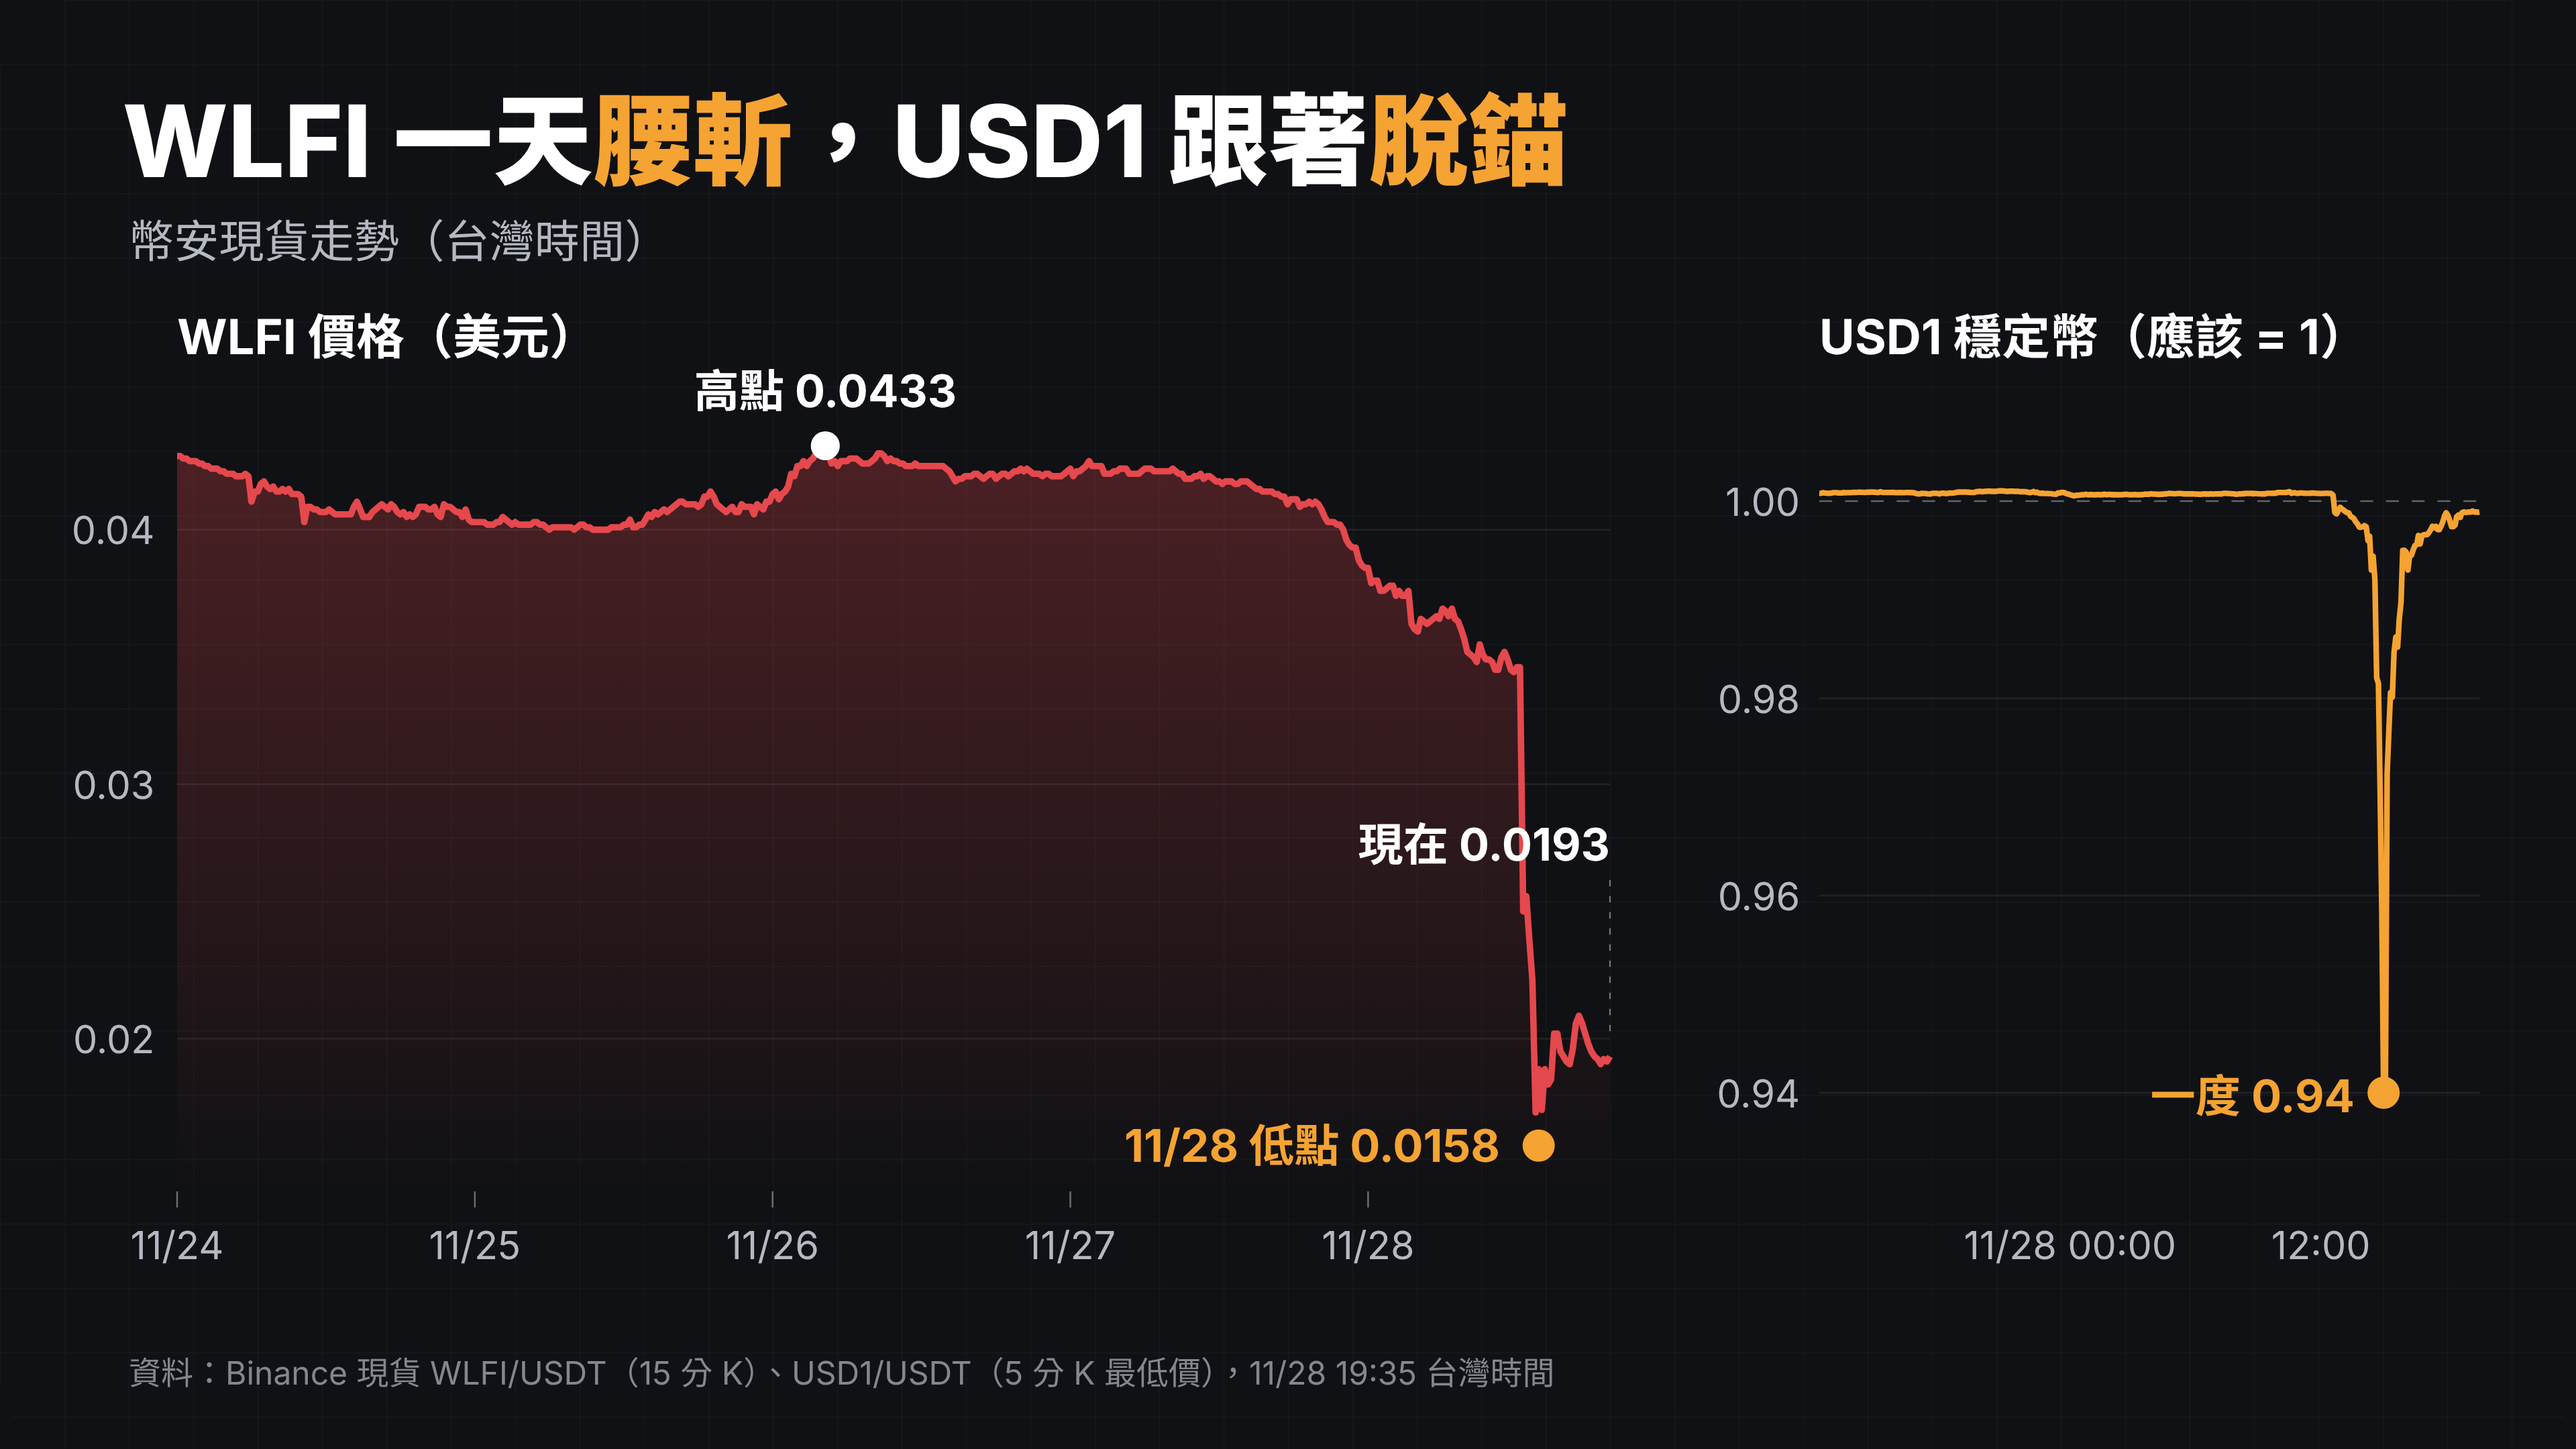
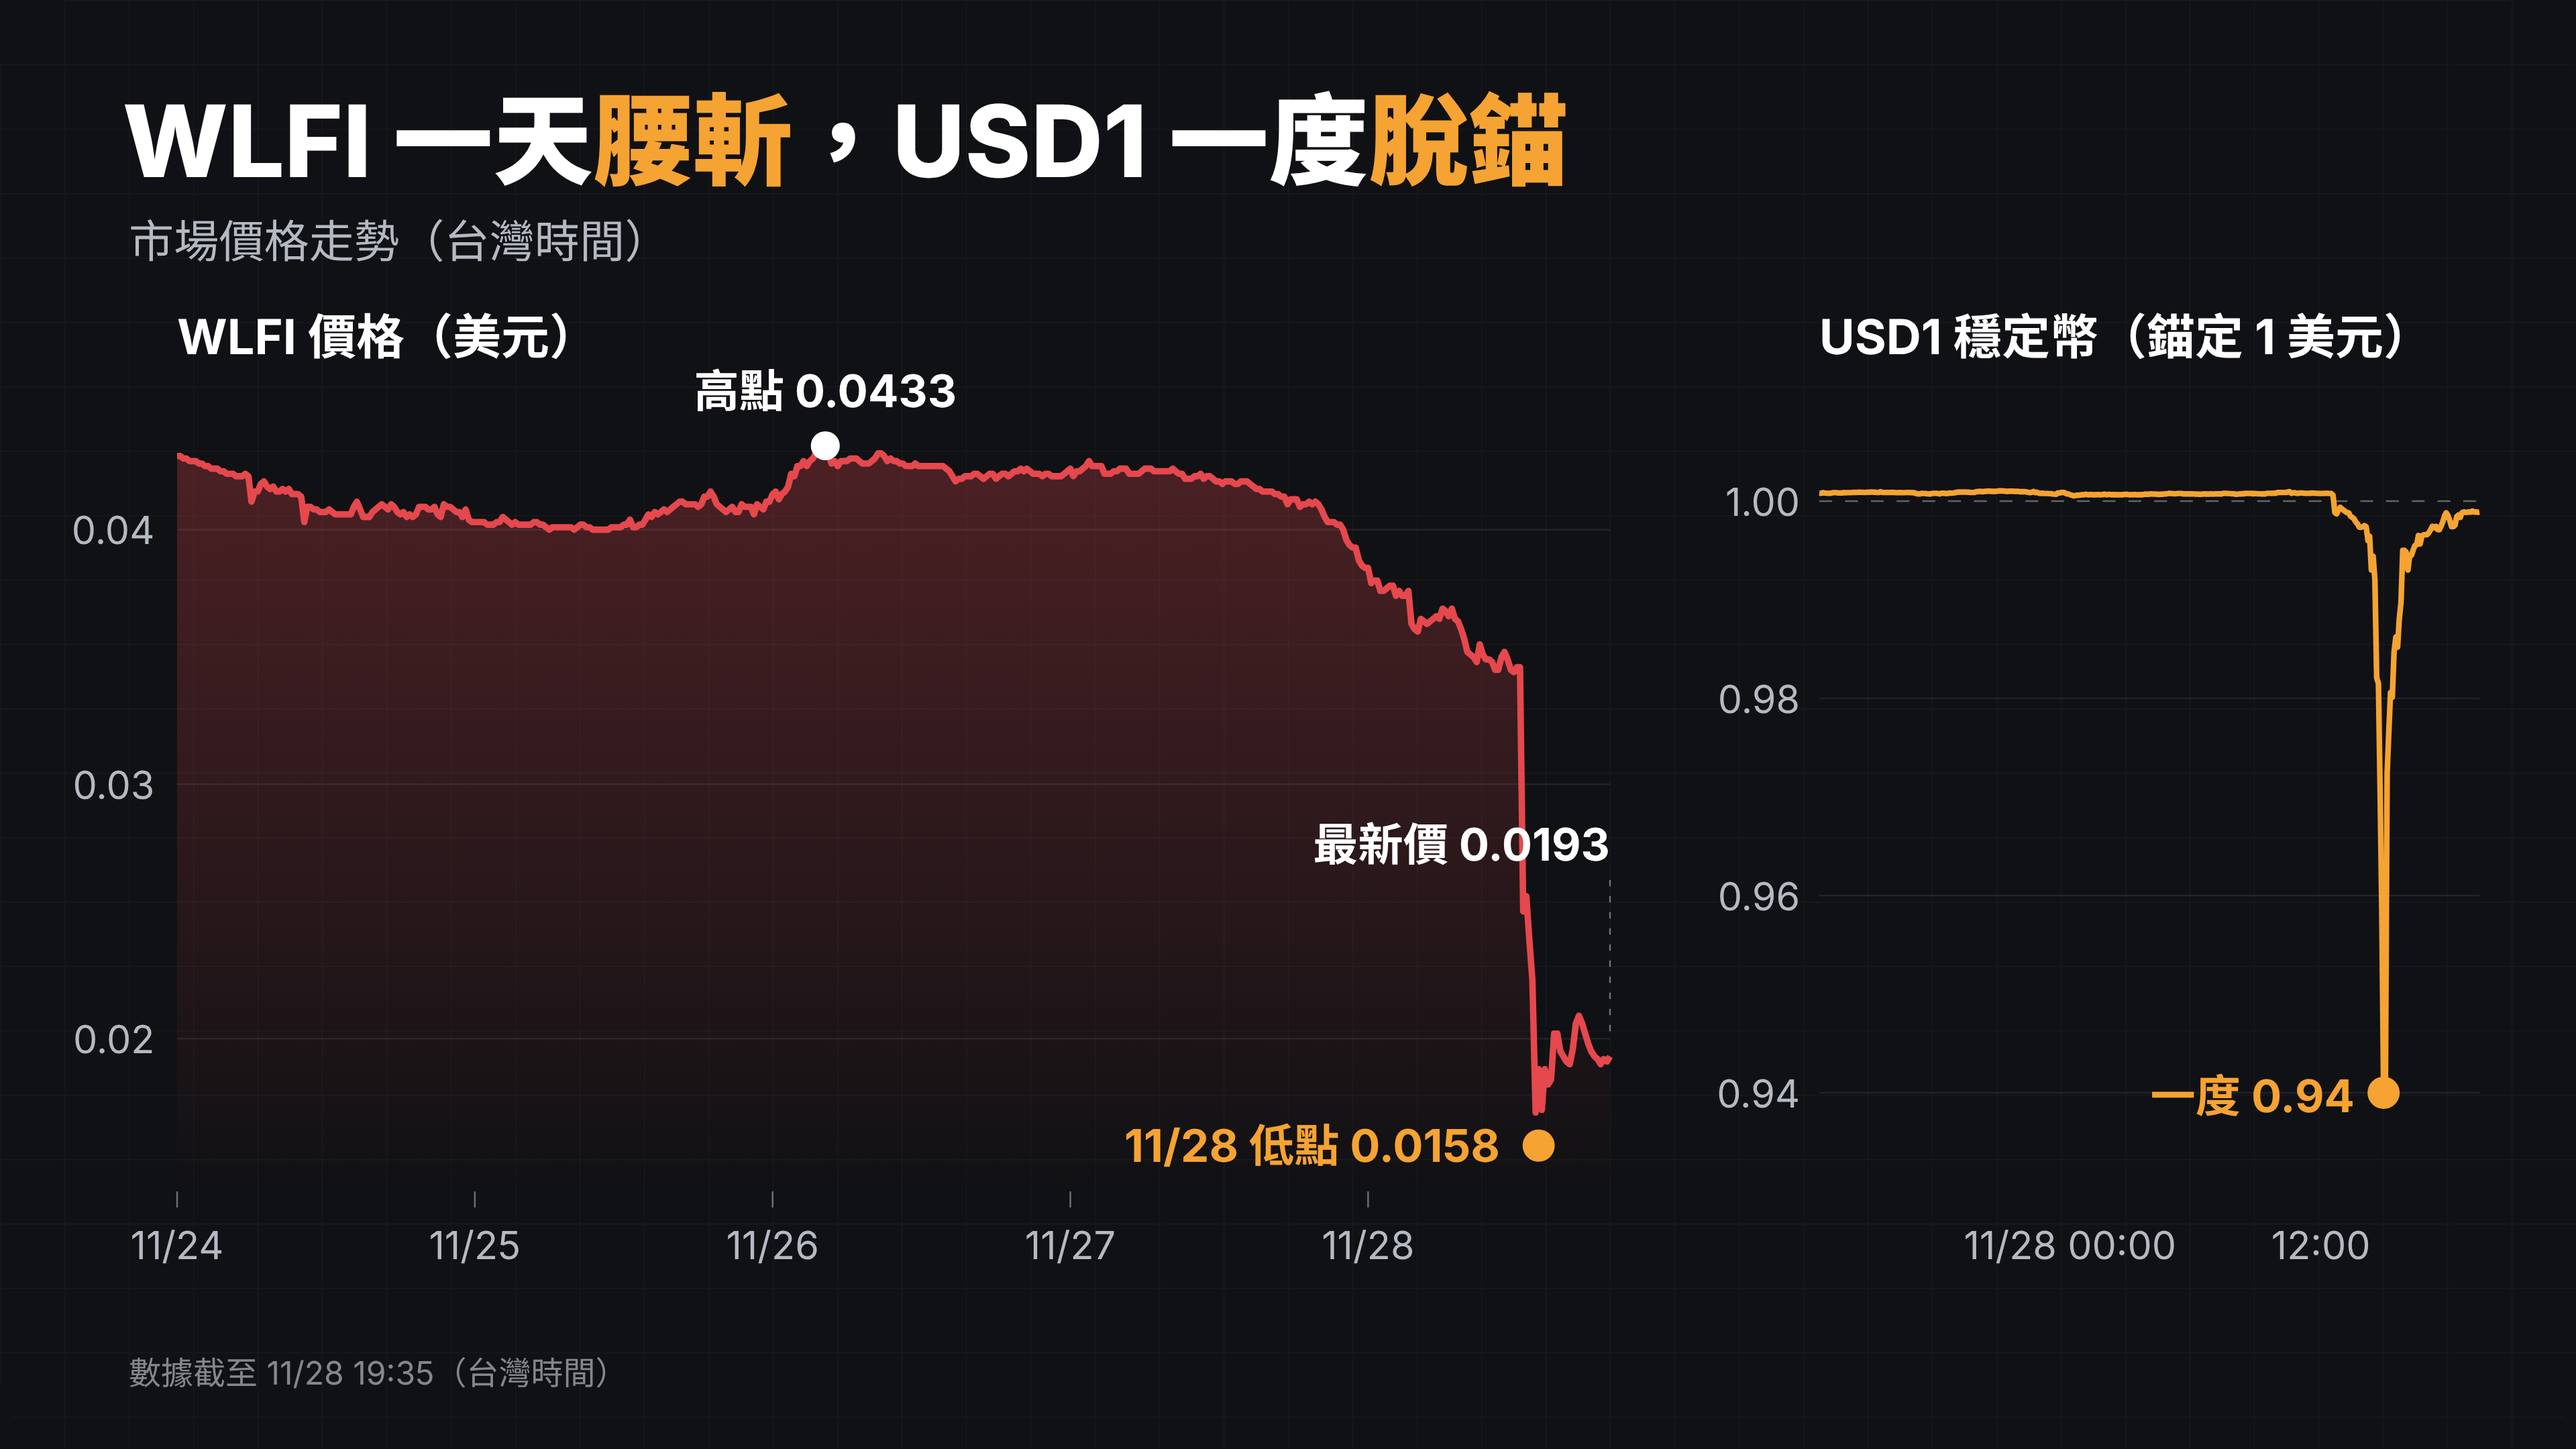
WLFI chart: text-only wording changes
Claude-Session: https://claude.ai/code/session_01L5kApshkgF9dxZ4dAm4ERZ

diff --git a/news-1128/wlfi-usd1-1128-4k.js b/news-1128/wlfi-usd1-1128-4k.js
@@ -7,8 +7,8 @@ draw:T=>{
   let g=`<defs><pattern id="grid" width="40" height="40" patternUnits="userSpaceOnUse"><path d="M40 0H0V40" fill="none" stroke="#fff" stroke-opacity="0.035"/></pattern>
   <linearGradient id="fillA" x1="0" x2="0" y1="0" y2="1"><stop offset="0" stop-color="${T.red}" stop-opacity="0.28"/><stop offset="1" stop-color="${T.red}" stop-opacity="0"/></linearGradient></defs>
   <rect width="1600" height="900" fill="url(#grid)"/>`;
-  g+=`<text x="76" y="110" class="ti">WLFI 一天<tspan fill="${T.fg}">腰斬</tspan>，USD1 跟著<tspan fill="${T.fg}">脫錨</tspan></text>`;
-  g+=`<text x="80" y="160" class="sub">幣安現貨走勢（台灣時間）</text>`;
+  g+=`<text x="76" y="110" class="ti">WLFI 一天<tspan fill="${T.fg}">腰斬</tspan>，USD1 一度<tspan fill="${T.fg}">脫錨</tspan></text>`;
+  g+=`<text x="80" y="160" class="sub">市場價格走勢（台灣時間）</text>`;
   // 左：WLFI
   const ax={x0:110,x1:1000,y0:740,y1:250,lo:0.014,hi:0.045};
   const xs=data.w.map(d=>d[0]),xmin=xs[0],xmax=xs[xs.length-1];
@@ -22,18 +22,18 @@ draw:T=>{
   const lo=data.w.reduce((a,b)=>b[2]<a[2]?b:a), hi=data.w.reduce((a,b)=>b[3]>a[3]?b:a), last=data.w[data.w.length-1];
   g+=`<circle cx="${X(hi[0])}" cy="${Y(hi[3])}" r="9" fill="${T.text}"/><text x="${X(hi[0])}" y="${Y(hi[3])-24}" class="an" text-anchor="middle">高點 ${hi[3]}</text>`;
   g+=`<circle cx="${X(lo[0])}" cy="${Y(lo[2])}" r="10" fill="${T.fg}"/><text x="${X(lo[0])-24}" y="${Y(lo[2])+10}" class="an" style="fill:${T.fg}" text-anchor="end">11/28 低點 ${lo[2]}</text>`;
-  g+=`<text x="${ax.x1}" y="${Y(0.027)}" class="an" text-anchor="end">現在 ${last[1]}</text><line x1="${X(last[0])}" x2="${X(last[0])}" y1="${Y(0.027)+12}" y2="${Y(last[1])-10}" stroke="#fff" stroke-opacity="0.4" stroke-dasharray="4 6"/>`;
+  g+=`<text x="${ax.x1}" y="${Y(0.027)}" class="an" text-anchor="end">最新價 ${last[1]}</text><line x1="${X(last[0])}" x2="${X(last[0])}" y1="${Y(0.027)+12}" y2="${Y(last[1])-10}" stroke="#fff" stroke-opacity="0.4" stroke-dasharray="4 6"/>`;
   // 右：USD1
   const bx={x0:1130,x1:1540,y0:740,y1:250,lo:0.93,hi:1.01};
   const us=data.u.map(d=>d[0]),umin=us[0],umax=us[us.length-1];
   const X2=t=>bx.x0+(t-umin)/(umax-umin)*(bx.x1-bx.x0), Y2=v=>bx.y0-(v-bx.lo)/(bx.hi-bx.lo)*(bx.y0-bx.y1);
-  g+=`<text x="${bx.x0}" y="${bx.y1-30}" class="ph">USD1 穩定幣（應該 = 1）</text>`;
+  g+=`<text x="${bx.x0}" y="${bx.y1-30}" class="ph">USD1 穩定幣（錨定 1 美元）</text>`;
   for(const v of [0.94,0.96,0.98,1.00]){g+=`<line x1="${bx.x0}" x2="${bx.x1}" y1="${Y2(v)}" y2="${Y2(v)}" stroke="#fff" stroke-opacity="${v===1?0.35:0.08}" ${v===1?'stroke-dasharray="8 8"':''}/><text x="${bx.x0-12}" y="${Y2(v)+9}" class="ax" text-anchor="end">${v.toFixed(2)}</text>`;}
   for(const [lab,t] of [['11/28 00:00',Date.UTC(2026,10,27,16)],['12:00',Date.UTC(2026,10,28,4)]]){if(t<umin||t>umax)continue;g+=`<text x="${X2(t)}" y="${bx.y0+42}" class="ax" text-anchor="middle">${lab}</text>`;}
   g+=`<polyline points="${data.u.map(d=>`${X2(d[0]).toFixed(1)},${Y2(d[2]).toFixed(1)}`).join(' ')}" fill="none" stroke="${T.fg}" stroke-width="3.5" stroke-linejoin="round"/>`;
   const ul=data.u.reduce((a,b)=>b[2]<a[2]?b:a);
   g+=`<circle cx="${X2(ul[0])}" cy="${Y2(ul[2])}" r="10" fill="${T.fg}"/><text x="${X2(ul[0])-18}" y="${Y2(ul[2])+12}" class="an" style="fill:${T.fg}" text-anchor="end">一度 ${ul[2].toFixed(2)}</text>`;
-  g+=`<text x="80" y="860" class="src">資料：Binance 現貨 WLFI/USDT（15 分 K）、USD1/USDT（5 分 K 最低價），11/28 19:35 台灣時間</text>`;
+  g+=`<text x="80" y="860" class="src">數據截至 11/28 19:35（台灣時間）</text>`;
   g+=`<style>.ti{fill:${T.text};font-size:62px;font-weight:900}.sub{fill:${T.dim};font-size:28px}.ph{fill:${T.text};font-size:30px;font-weight:700}.ax{fill:${T.dim};font-size:24px;font-family:Inter}.an{fill:${T.text};font-size:28px;font-weight:700;font-family:Inter,'Noto Sans TC'}.src{fill:${T.dim};font-size:20px;opacity:.7}</style>`;
   return g;
 }});
